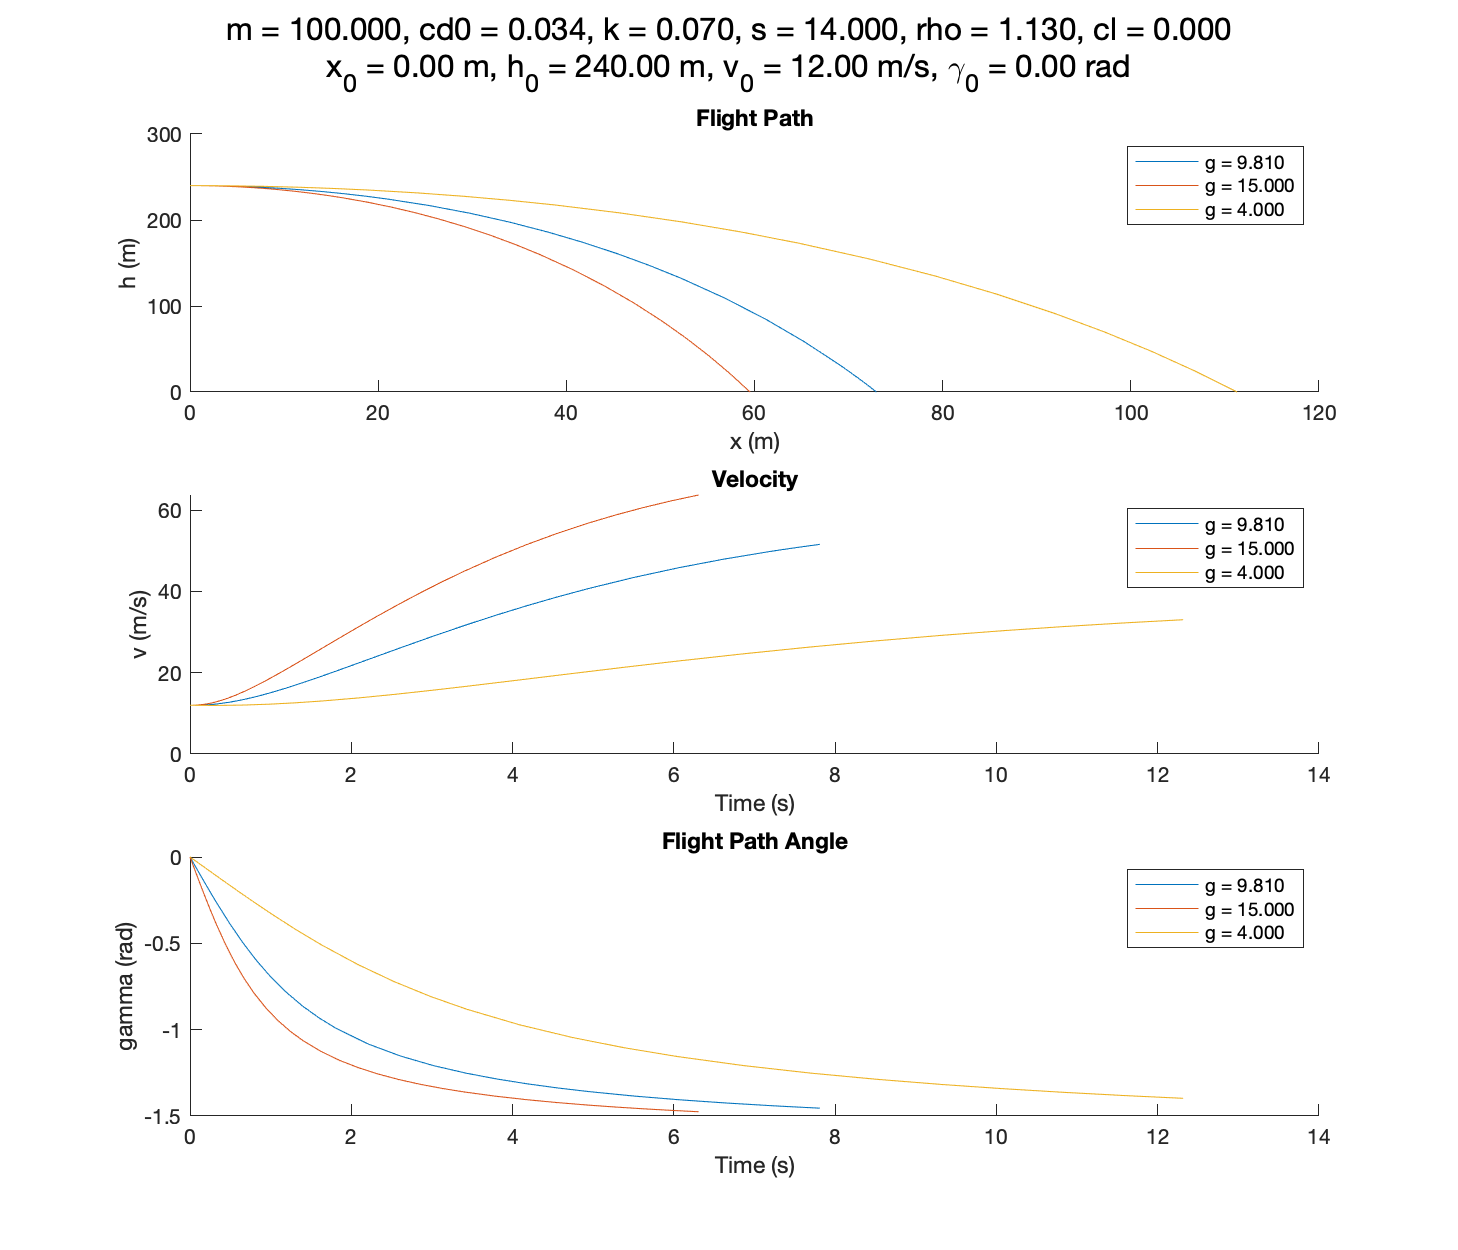
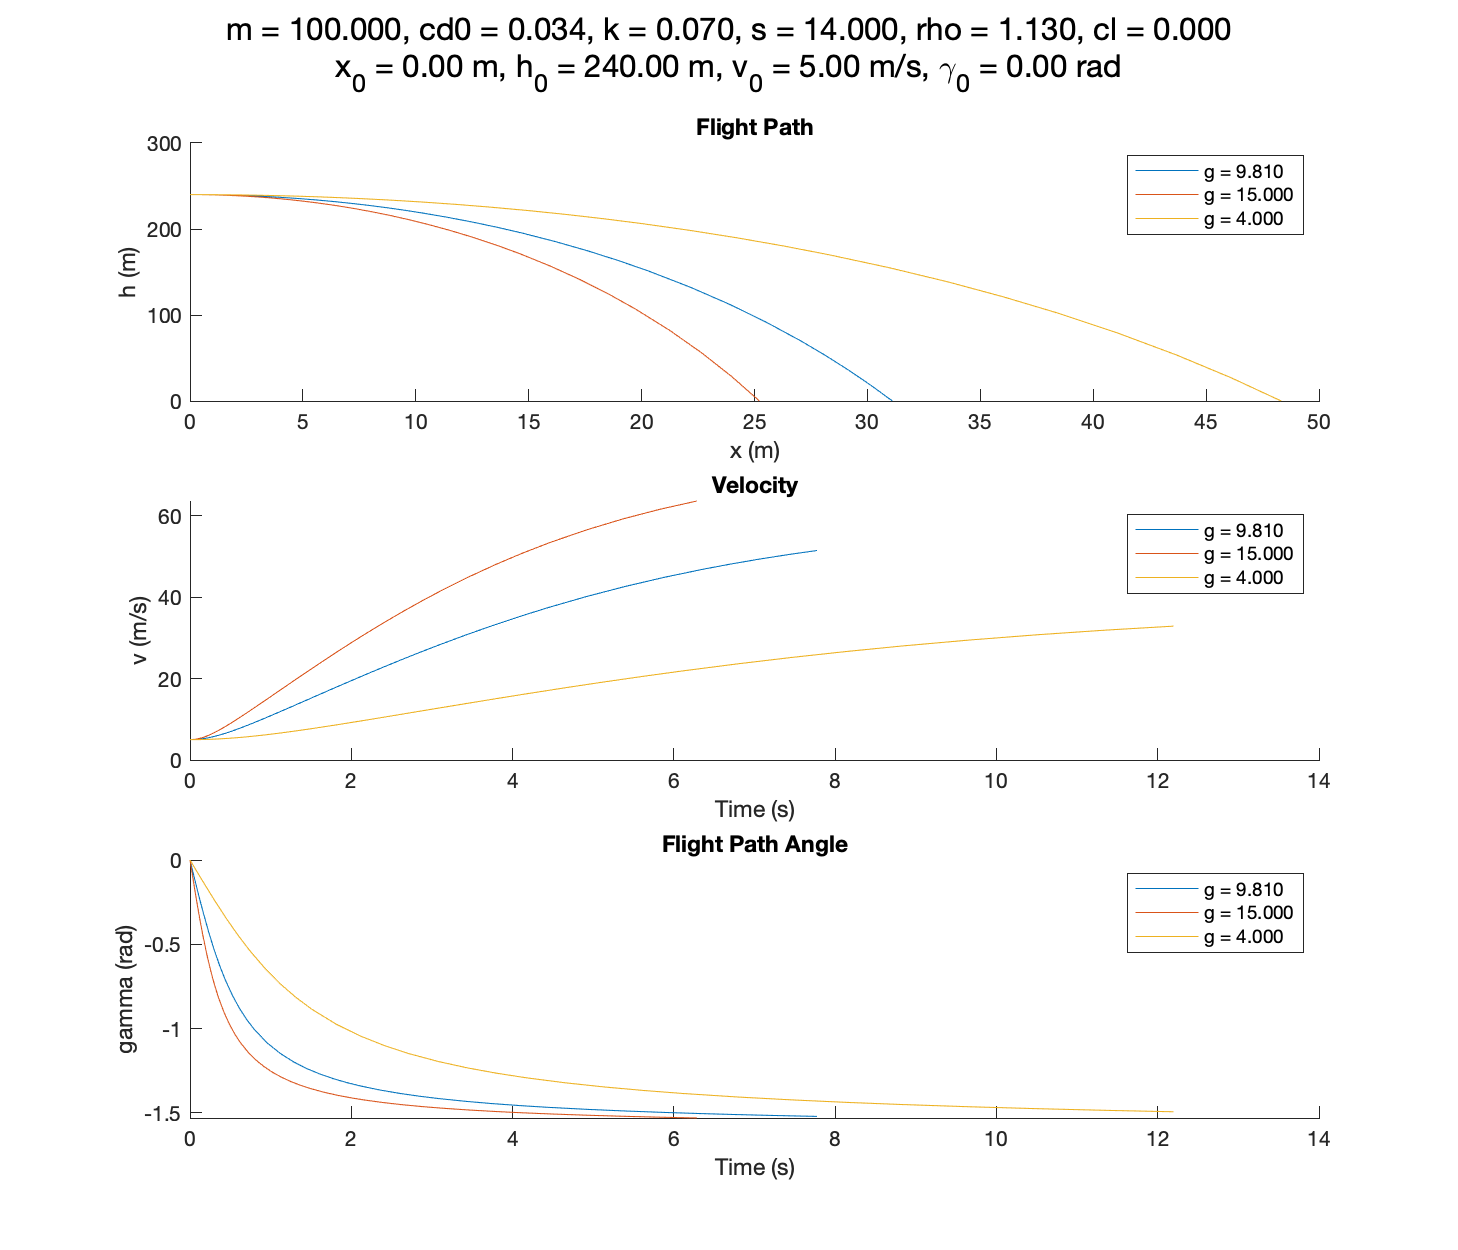
added initial velocity simulation script

diff --git a/plot_velocities.m b/plot_velocities.m
@@ -1,0 +1,94 @@
+% Script to simulate and plot flight dynamics for different initial velocities
+
+% Clear workspace and figures
+clear all;
+close all;
+clc;
+
+% First set of parameters
+X0 = [0; 240; 5; 0];    % Initial state [x, h, v, gamma]
+tspan = [0, 100];       % Time span [start, end]
+m = 100;                % Mass in kg
+cd0 = 0.034;            % Zero drag coefficient
+k = 0.07;               % Induced drag coefficient
+s = 14;                 % Reference area in m^2
+g = 9.81;               % Gravitational acceleration in m/s^2
+rho = 1.13;             % Air density in kg/m^3s
+cl = 0;                 % Lift coefficient
+
+% Array of initial velocities to test
+v0_array = [0, 5, 9.8, 20, 50];  % Initial velocities (m/s)
+
+% Initialize figure and subplots
+figureHandle = figure;
+
+% Flight Path subplot
+subplot(3, 1, 1);
+hold on;
+title('Flight Path');
+xlabel('x (m)');
+ylabel('h (m)');
+
+% Velocity subplot
+subplot(3, 1, 2);
+hold on;
+title('Velocity');
+xlabel('Time (s)');
+ylabel('v (m/s)');
+
+% Flight Path Angle subplot
+subplot(3,1,3);
+hold on;
+title('Flight Path Angle');
+xlabel('Time (s)');
+ylabel('\gamma (rad)');
+
+% Prepare ODE options with event function
+options = odeset('Events', @myEventsFcn);
+
+% Loop over each initial velocity
+for idx = 1:length(v0_array)
+    % Set the initial velocity
+    v0 = v0_array(idx);
+    X0(3) = v0;  % Update initial velocity
+
+    % Solve the state equations using ode45
+    [t, X] = ode45(@(t, X) dy_sim(X, cl, m, cd0, k, s, g, rho), tspan, X0, options);
+
+    % Create label for this simulation
+    label_str = sprintf('v_0 = %.1f m/s', v0);
+
+    % Plot Flight Path
+    subplot(3, 1, 1);
+    plot(X(:,1), X(:,2), 'DisplayName', label_str);
+
+    % Plot Velocity
+    subplot(3, 1, 2);
+    plot(t, X(:, 3), 'DisplayName', label_str);
+
+    % Plot Flight Path Angle
+    subplot(3,1,3);
+    plot(t, X(:, 4), 'DisplayName', label_str);
+end
+
+% Add legends to the plots
+subplot(3, 1, 1);
+legend show;
+subplot(3, 1, 2);
+legend show;
+subplot(3,1,3);
+legend show;
+
+% Add parameters to the figure title
+params_str = sprintf(['Simulation for different initial velocities\n' ...
+    'm = %d kg, S = %.2f m^2, \\rho = %.2f kg/m^3, g = %.3f m/s^2\n', ...
+    'x_0 = %.2f m, h_0 = %.2f m, \\gamma_0 = %.2f rad'], ...
+    m, s, rho, g, X0(1), X0(2), X0(4));
+sgtitle(params_str);
+
+% Function for the event (stopping condition)
+function [value, isterminal, direction] = myEventsFcn(t, X)
+    value = X(2);       % Stop when altitude h = 0
+    isterminal = 1;     % Stop the integration
+    direction = -1;     % Negative direction only
+end

diff --git a/simulation.m b/simulation.m
@@ -1,7 +1,7 @@
 % Script to run simulations with different parameters
 
 % First set of parameters
-X0 = [0; 240; 12; 0];    % Initial state [x, h, v, gamma]
+X0 = [0; 240; 5; 0];    % Initial state [x, h, v, gamma]
 tspan = [0, 100];       % Time span [start, end]
 m = 100;                % Mass in kg
 cd0 = 0.034;            % Zero drag coefficient
@@ -13,26 +13,29 @@ cl = 0;                 % Lift coefficient
 
 
 % Vary air density (rho)
-rho_array = [1.13, 0.5, 3.0];
-simulate_flight(X0, tspan, m, cd0, k, s, g, rho_array, cl);
-
-% Vary mass (m)
-m_array = [100, 10, 300];
-simulate_flight(X0, tspan, m_array, cd0, k, s, g, rho, cl);
-
-
-% Vary gravitational constant (g)
-g_array = [9.81, 15, 4.0];
-simulate_flight(X0, tspan, m, cd0, k, s, g_array, rho, cl);
-
-% Vary Reference area (s)
-s_array = [14, 30, 4.0];
-simulate_flight(X0, tspan, m, cd0, k, s_array, g, rho, cl);
-
-% Vary zero drag coefficient (cd0)
-cd0_array = [0.034, 1.5, 0];
-simulate_flight(X0, tspan, m, cd0_array, k, s, g, rho, cl);
+%rho_array = [1.13, 0.5, 3.0];
+%simulate_flight(X0, tspan, m, cd0, k, s, g, rho_array, cl);
+%
+%% Vary mass (m)
+%m_array = [100, 10, 300];
+%simulate_flight(X0, tspan, m_array, cd0, k, s, g, rho, cl);
+%
+%
+%% Vary gravitational constant (g)
+%g_array = [9.81, 15, 4.0];
+%simulate_flight(X0, tspan, m, cd0, k, s, g_array, rho, cl);
+%
+%% Vary Reference area (s)
+%s_array = [14, 30, 4.0];
+%simulate_flight(X0, tspan, m, cd0, k, s_array, g, rho, cl);
+%
+%% Vary zero drag coefficient (cd0)
+%cd0_array = [0.034, 1.5, 0];
+%simulate_flight(X0, tspan, m, cd0_array, k, s, g, rho, cl);
 
 % Vary lift coefficient (cl)
 %cl_array = [0.4, 0.5, 0.6];
 %simulate_flight(X0, tspan, m, cd0, k, s, g, rho, cl_array);
+
+X0_array = [0; 240; [0,5; 9.8;]; 0]; 
+simulate_flight(X0, tspan, m, cd0, k, s, g, rho, cl);
